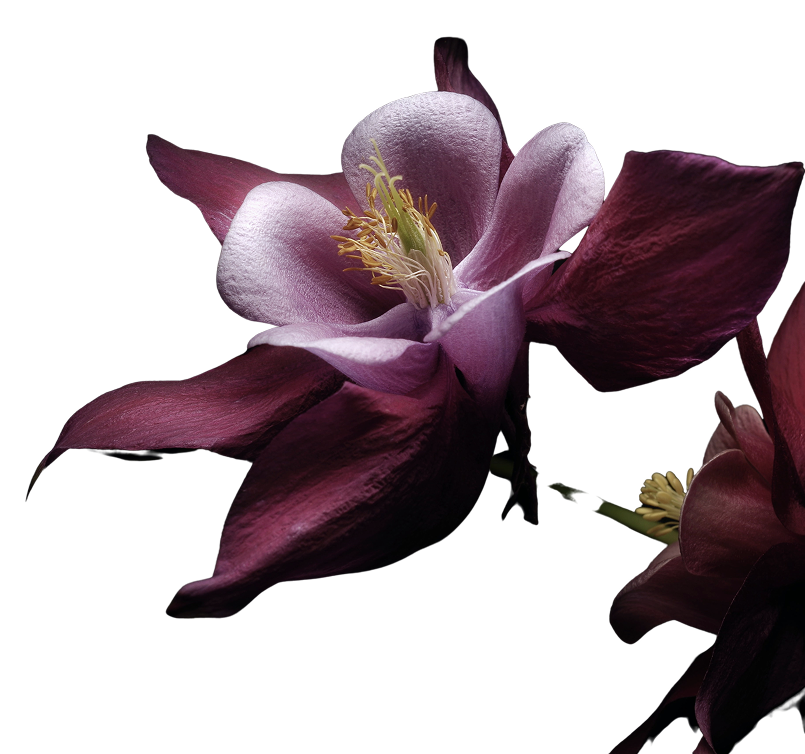
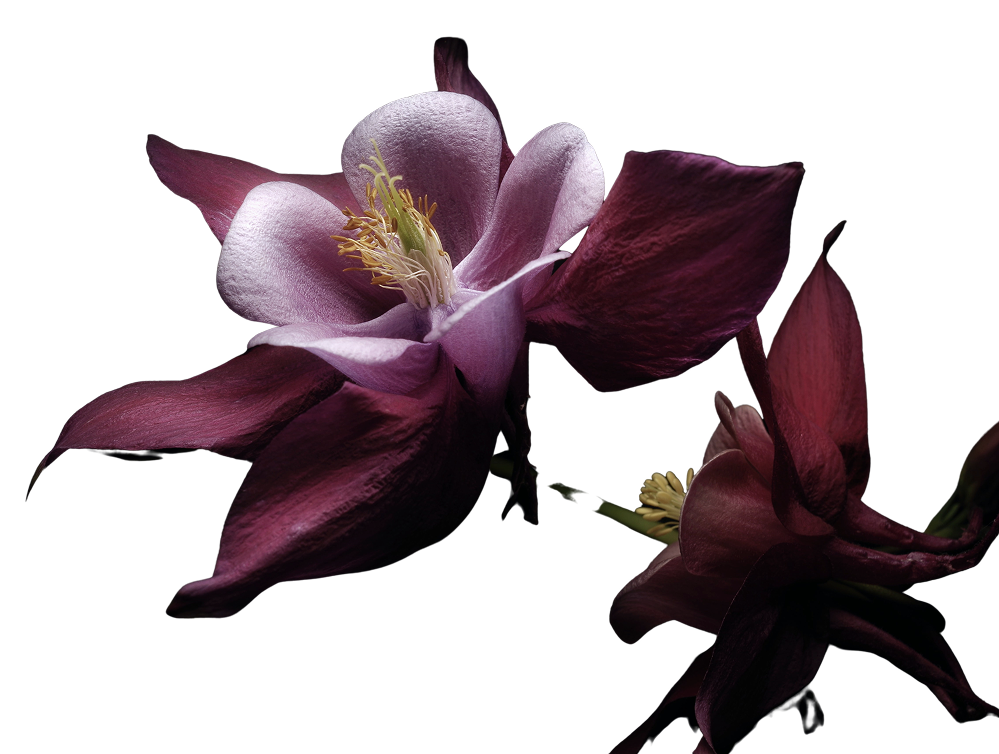
Success page: added patterns (head, header, footer, cart)  and added .hero section and adaptive for mobile

diff --git a/src/sass/blocks/success/hero-success.scss b/src/sass/blocks/success/hero-success.scss
@@ -1,0 +1,168 @@
+@use "/src/sass/base/variables.scss" as *;
+@use "/src/sass/base/mixins.scss" as *;
+
+.page-success {
+    &__img {
+        position: absolute;
+        bottom: -105px;
+        right: -194px;
+        width: clamp(377px, 377px + 622 * ((100vw - 320px) / (1440 - 320)), 999px);
+    }
+    &__main {
+        position: relative;
+        overflow: hidden;
+    }
+    .page__bubble {
+        position: absolute;
+        z-index: -2;
+    }
+    .header {
+        background-color: $color-black !important;
+        &__phone,
+        &__btn {
+            visibility: visible;
+        }
+    }
+
+    .hero {
+        padding-bottom: 408px;
+        &__title {
+            font-family: $second-family;
+            margin-top: 193px;
+            font-weight: 400;
+            @include fluid-font(40, 100);
+            @include fluid-line-height(40, 121);
+            letter-spacing: 0.02em;
+            text-transform: uppercase;
+            color: $color-white;
+            &_part-2 {
+                position: relative;
+                display: block;
+                padding-left: 505px;
+                &::before {
+                    content: "";
+
+                    position: absolute;
+                    top: 50%;
+
+                    left: 96px;
+
+                    width: 349px;
+                    height: 1px;
+                    background-color: $color-pink;
+                }
+            }
+        }
+        &__text {
+            font-family: $font-family;
+            font-weight: 400;
+            font-size: 14px;
+            letter-spacing: 0.04em;
+            text-transform: uppercase;
+            color: $color-white;
+            line-height: 21px;
+
+            margin-top: 30px;
+            &_desctop {
+                margin-top: 20px;
+            }
+            &_mobile {
+                display: none;
+            }
+        }
+        &__link {
+            font-family: $font-family;
+            font-weight: 700;
+            font-size: 14px;
+            letter-spacing: 0.04em;
+            text-transform: uppercase;
+            text-decoration: underline;
+            text-decoration-skip-ink: none;
+            color: $color-mint;
+
+            display: block;
+            margin-top: 61px;
+        }
+        &__painting {
+            position: absolute;
+            left: 346px;
+            bottom: 14px;
+            transform: translateY(100%) rotate(-14deg);
+            z-index: 1;
+        }
+    }
+
+    @media screen and (max-width: 1024px) {
+        .hero {
+            &__title {
+                &_part-2 {
+                    padding-left: 380px;
+                    &::before {
+                        width: 210px;
+                        left: 80px;
+                    }
+                }
+            }
+        }
+    }
+
+    @media screen and (max-width: 768px) {
+        .hero {
+            padding-bottom: 159px;
+            &__title {
+                &_part-1 {
+                    display: block;
+                    position: relative;
+                    padding-left: 72px;
+                    &::before {
+                        content: "";
+
+                        position: absolute;
+                        top: 50%;
+
+                        left: 0;
+
+                        width: 45px;
+                        height: 1px;
+                        background-color: $color-pink;
+                    }
+                }
+                &_part-2 {
+                    padding-left: 51px;
+                    &::before {
+                        display: none;
+                    }
+                }
+            }
+            &__text {
+                margin-top: 10px;
+                &_mobile {
+                    position: relative;
+                    display: block;
+                    margin-top: 8px;
+                    max-width: 234px;
+                    z-index: 1;
+                }
+                &_desctop {
+                    display: none;
+                }
+            }
+            &__link {
+                margin-top: 20px;
+            }
+            &__painting {
+                width: 137px;
+                left: 21px;
+                bottom: -35px;
+            }
+        }
+    }
+}
+@media screen and (max-width: 768px) {
+    .page-success {
+        &__img {
+            bottom: -51px;
+            right: -139px;
+        }
+    }
+}

diff --git a/success/index.html b/success/index.html
@@ -1,0 +1,47 @@
+<!DOCTYPE html>
+<html lang="ru">
+    <head>
+        <%- include('src/templates/head.html'); %>
+        <title>LF-success</title>
+    </head>
+    <body class="page-success">
+        <main class="page-success__main">
+            <%- include('src/templates/header.html'); %>
+            <section class="hero">
+                <div class="container">
+                    <h1 class="hero__title">Оплата <span
+                            class="hero__title_part-1">прошла</span>
+                        <span class="hero__title_part-2">успешно!</span>
+                    </h1>
+                    <p class="hero__text">Ваш номер заказа –
+                        <span>395808599</span>
+                    </p>
+                    <p class="hero__text hero__text_desctop">Спасибо за заказ!
+                        <br>
+                        Вы получите уведомление о статусе вашего заказа
+                    </p>
+                    <p class="hero__text hero__text_mobile">Спасибо за заказ!
+                        <br>
+                        Наш менеджер свяжется с вами <br>
+                        в течении 15 минут для уточнения деталей и подтверждения
+                        заказа
+                    </p>
+
+                    <a href="/index.html" class="hero__link">на главную</a>
+                    <img class="hero__painting"
+                        src="/src/image/success/success-painting.svg"
+                        alt="lover flower">
+                </div>
+            </section>
+            <div class="page__bubble bubble__mint"></div>
+            <div class="page__bubble bubble__wine"></div>
+            <img src="/src/image/success/success__bg.png
+            " class="page-success__img"
+                alt="beautiful flowers for the background">
+        </main>
+        <%- include('src/templates/cart.html'); %>
+        <%- include('src/templates/footer.html'); %>
+        <script type="module"
+            src="/src/js/main.js"></script>
+    </body>
+</html>

diff --git a/src/sass/style.scss b/src/sass/style.scss
@@ -41,3 +41,5 @@
 
 @use "/src/sass/blocks/order/hero-order.scss";
 @use "/src/sass/blocks/order/form-order.scss";
+
+@use "/src/sass/blocks/success/hero-success.scss";
